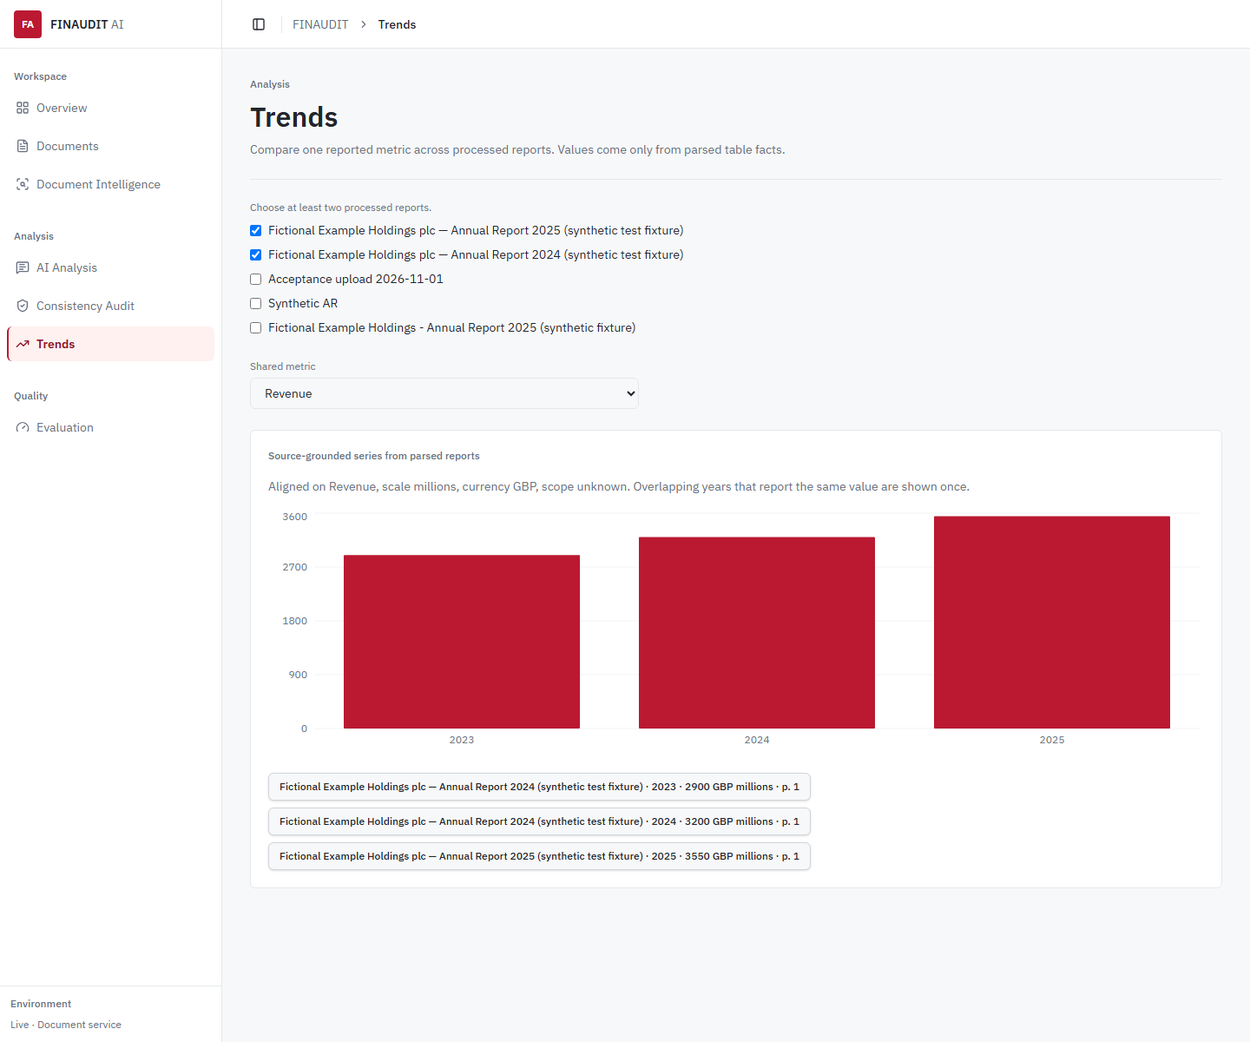
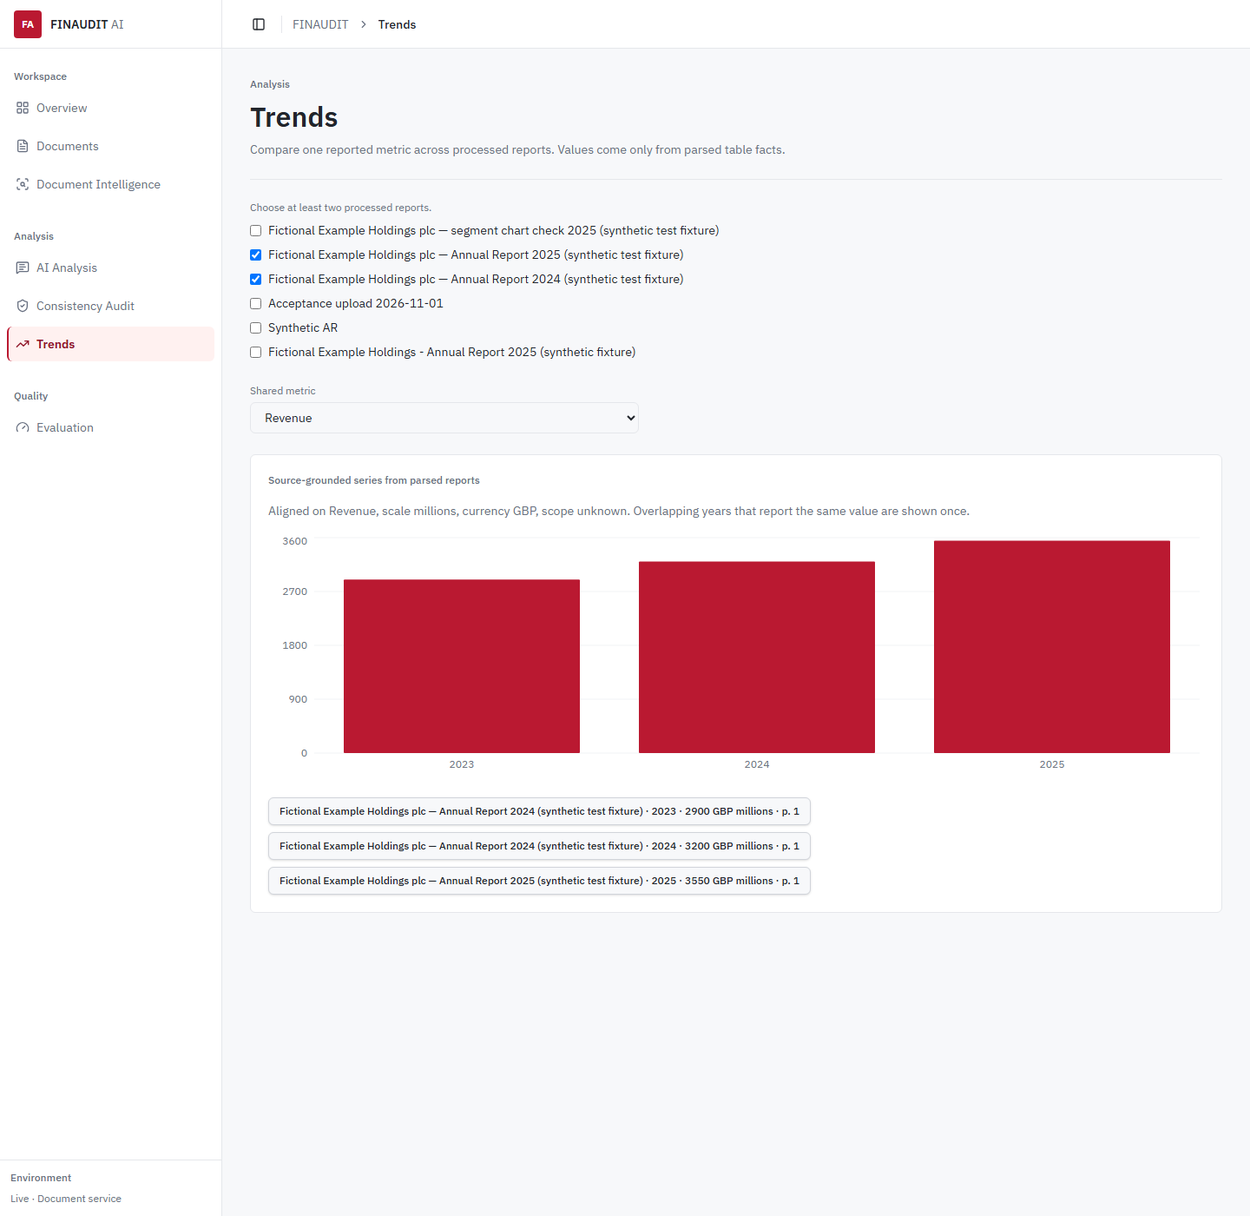
Deliver the verified OpenAI vision demo for all three Project 10 outcomes.
Document the five-minute flow, redacted provider evidence, synthetic chart-check fixture, and browser screenshots while keeping the short-course checkpoint unchanged.

diff --git a/services/api/tests/fixtures/generate_chart_check.py b/services/api/tests/fixtures/generate_chart_check.py
@@ -1,0 +1,94 @@
+"""Synthetic chart-versus-table fixture.
+
+The chart prints North 240, South 158, East 90, and West 21.
+The table reports the same figures except East, which is 150.
+Both pages say this is a synthetic test fixture and not a real company.
+
+Run: python tests/fixtures/generate_chart_check.py
+"""
+
+from __future__ import annotations
+
+import io
+from pathlib import Path
+
+from PIL import Image, ImageDraw, ImageFont
+from reportlab.lib import colors
+from reportlab.lib.pagesizes import A4
+from reportlab.lib.utils import ImageReader
+from reportlab.pdfgen import canvas
+from reportlab.platypus import Table, TableStyle
+
+OUT = Path(__file__).parent
+W, H = A4
+FONT = Path(r"C:\Windows\Fonts\arial.ttf")
+FONT_BOLD = Path(r"C:\Windows\Fonts\arialbd.ttf")
+
+
+def chart_png() -> bytes:
+    img = Image.new("RGB", (1100, 640), "white")
+    draw = ImageDraw.Draw(img)
+    title = ImageFont.truetype(str(FONT_BOLD), 36)
+    label = ImageFont.truetype(str(FONT), 32)
+    value = ImageFont.truetype(str(FONT_BOLD), 40)
+    draw.text((40, 24), "Segment revenue 2025", fill="black", font=title)
+    draw.text((40, 72), "GBP millions", fill="black", font=label)
+    bars = [("North", 240), ("South", 158), ("East", 90), ("West", 21)]
+    for index, (name, amount) in enumerate(bars):
+        left = 120 + index * 240
+        top = 560 - int(amount * 1.6)
+        draw.rectangle([left, top, left + 140, 560], fill=(30, 64, 140))
+        amount_text = str(amount)
+        box = draw.textbbox((0, 0), amount_text, font=value)
+        draw.text((left + 70 - (box[2] - box[0]) / 2, top - 52), amount_text, fill="black", font=value)
+        box = draw.textbbox((0, 0), name, font=label)
+        draw.text((left + 70 - (box[2] - box[0]) / 2, 575), name, fill="black", font=label)
+    draw.line([70, 560, 1040, 560], fill="black", width=3)
+    draw.line([70, 140, 70, 560], fill="black", width=3)
+    buf = io.BytesIO()
+    img.save(buf, "PNG")
+    return buf.getvalue()
+
+
+def main() -> None:
+    path = OUT / "synthetic_chart_check.pdf"
+    pdf = canvas.Canvas(str(path), pagesize=A4, invariant=1)
+    pdf.setTitle("Fictional Example Holdings plc — segment chart check 2025 (synthetic test fixture)")
+    pdf.setFont("Helvetica-Bold", 16)
+    pdf.drawString(72, H - 80, "Fictional Example Holdings plc")
+    pdf.setFont("Helvetica", 11)
+    pdf.drawString(72, H - 110, "SYNTHETIC TEST FIXTURE. This is not a real company and contains no real financial data.")
+    pdf.drawString(72, H - 128, "Segment revenue for the year ended 31 December 2025. Figures are in GBP millions.")
+    rows = [
+        ["", "2025"],
+        ["North", "240"],
+        ["South", "158"],
+        ["East", "150"],
+        ["West", "21"],
+    ]
+    table = Table(rows, colWidths=[180, 90], rowHeights=22)
+    table.setStyle(TableStyle([
+        ("GRID", (0, 0), (-1, -1), 0.6, colors.black),
+        ("FONTNAME", (0, 0), (-1, 0), "Helvetica-Bold"),
+        ("ALIGN", (1, 0), (-1, -1), "RIGHT"),
+        ("VALIGN", (0, 0), (-1, -1), "MIDDLE"),
+    ]))
+    _, height = table.wrapOn(pdf, W, H)
+    top = H - 170
+    table.drawOn(pdf, 72, top - height)
+    pdf.setFont("Helvetica-Oblique", 9)
+    pdf.drawString(72, top - height - 16, "Table 1: Segment revenue (GBP millions), synthetic, 2025")
+    pdf.showPage()
+    pdf.setFont("Helvetica-Bold", 16)
+    pdf.drawString(72, H - 80, "Segment performance")
+    image = chart_png()
+    pdf.drawImage(ImageReader(io.BytesIO(image)), 72, H - 460, 450, 262)
+    pdf.setFont("Helvetica-Oblique", 9)
+    pdf.drawString(72, H - 480, "Figure 1: Segment revenue, 2025 (synthetic test fixture)")
+    pdf.showPage()
+    pdf.save()
+    print("wrote", path)
+
+
+if __name__ == "__main__":
+    main()

diff --git a/services/api/tests/unit/test_course_reports.py b/services/api/tests/unit/test_course_reports.py
@@ -15,6 +15,13 @@ def _text(name: str) -> str:
         doc.close()
 
 
+def test_chart_check_fixture_prints_a_mismatch_and_says_synthetic() -> None:
+    text = _text("synthetic_chart_check.pdf")
+    assert "SYNTHETIC TEST FIXTURE" in text
+    assert "not a real company" in text
+    assert "150" in text and "240" in text and "158" in text and "21" in text
+
+
 def test_course_reports_are_distinct_and_labelled_synthetic() -> None:
     earlier = _text("synthetic_ar_2024.pdf")
     later = _text("synthetic_ar_2025.pdf")

diff --git a/services/api/scripts/start_api.py b/services/api/scripts/start_api.py
@@ -1,0 +1,16 @@
+"""Start the API with the gitignored .env loaded into the process environment."""
+
+from __future__ import annotations
+
+import os
+import sys
+from pathlib import Path
+
+from dotenv import dotenv_values
+
+root = Path(__file__).resolve().parents[1]
+os.chdir(root)
+for name, value in dotenv_values(root / ".env").items():
+    if value:
+        os.environ[name] = value
+os.execv(sys.executable, [sys.executable, "-m", "uvicorn", "app.main:app", "--host", "127.0.0.1", "--port", "8000"])

diff --git a/DEMO_GUIDE.md b/DEMO_GUIDE.md
@@ -1,19 +1,19 @@
 # Five-minute demonstration
 
-Branch: `demo/short-course-final`.
+Branch: `final-demo` (rollback checkpoint: `demo/short-course-final` at `3bfc04b`).
 
-Use documents that are already **Ready**. A fresh Docling parse of the 3-page fixture took 103 seconds on this machine, so do not start an upload during the five minutes. The upload path was checked separately on 1 November 2026 and is described at the end.
+Use documents that are already **Ready**. Do not upload during the five minutes unless the library is empty. All figures below were verified on 2 November 2026 with provider **openai**, model **gpt-4.1-mini**, and parsed table facts from Docling.
 
-Screenshots from that check are in `docs/short-course-demo/`. If the live app fails, open those files instead of improvising results.
+Screenshots are in `docs/short-course-demo/`. If the live app fails, open those files instead of improvising results.
 
 ## Start, before the room
 
-Three terminals. Keep the API on loopback.
+Three terminals. Keep the API on loopback. The vision key must be in `services/api/.env` as `FINAUDIT_LLM_API_KEY` (gitignored). Plain `uvicorn` does not load that key into the process; use the helper below.
 
 ```powershell
-# Terminal 1 — API
+# Terminal 1 — API (loads gitignored .env, binds 127.0.0.1 only)
 cd services\api
-.\.venv\Scripts\python.exe -m uvicorn app.main:app --host 127.0.0.1 --port 8000
+.\.venv\Scripts\python.exe scripts\start_api.py
 ```
 
 ```powershell
@@ -30,68 +30,64 @@ npm install
 npm run dev
 ```
 
-Open http://localhost:8080. The sidebar footer must say **Live · Document service**. Health: http://127.0.0.1:8000/api/v1/health.
+Open http://localhost:8080. The sidebar footer must say **Live · Document service**.
 
-Test PDF, already in the repo: `services/api/tests/fixtures/annual_report_excerpt.pdf`. It is a synthetic 3-page report for Fictional Example Holdings plc and contains no real company data.
+Checks: http://127.0.0.1:8000/api/v1/health returns 200. http://127.0.0.1:8000/api/v1/index/status shows `llm.provider` **openai**, `llm.model` **gpt-4.1-mini**, `llm.available` **true**.
 
-If Documents is empty, upload that PDF twice with two different titles and wait until both are Ready before the demo. One report is not enough for Trends.
+**Fixture PDFs in the repo** (synthetic, not real companies):
+
+| File | Role |
+| --- | --- |
+| `services/api/tests/fixtures/synthetic_chart_check.pdf` | Printed chart numbers vs table (MATCH + POTENTIAL_DISCREPANCY) |
+| `services/api/tests/fixtures/synthetic_ar_2024.pdf` | Distinct annual report, 2023–2024 revenue |
+| `services/api/tests/fixtures/synthetic_ar_2025.pdf` | Distinct annual report, 2024–2025 revenue |
+| `services/api/tests/fixtures/annual_report_excerpt.pdf` | Unlabelled bar chart; estimates only |
+
+If the chart-check or annual-report rows are missing, upload the matching fixture once as **Annual Report** and wait until **Ready** before presenting.
 
 ## Script
 
-**0:00 — Documents.** Show the library. On this machine the checked rows are Synthetic AR, Fictional Example Holdings - Annual Report 2025 (synthetic fixture), and Acceptance upload 2026-11-01. All three are Ready, 3 pages, Annual Report. Say they were parsed by Docling, not typed in by hand. Screenshot: `docs/short-course-demo/acceptance-documents-ready.png`.
+**0:00 — Documents.** Show the library. Point at **Ready** rows, especially **Fictional Example Holdings plc — segment chart check 2025 (synthetic test fixture)** and the two **Annual Report 2024 / 2025 (synthetic test fixture)** titles. Say values come from parsed PDF tables, not hand entry.
 
-**0:40 — Chart crop, not a generated summary.** Open Consistency Audit. Select Synthetic AR or the acceptance upload.
+**0:40 — Outcome 1: chart-to-text (real VLM).** Open **Consistency Audit**. Select **Acceptance upload 2026-11-01** (or any Ready report with the page-3 segment bar chart).
 
-- The page shows the extracted page-3 crop, caption **Figure 1: Revenue by segment, 2025 (synthetic)**, and labels North, South, East, West.
-- Say the crop and caption come from the PDF parser. No model wrote them.
-- Click **Read chart with the configured model**.
-- Expected: **Visual interpretation is unavailable. No chart summary was generated.**
-- Visual check stays **INSUFFICIENT_EVIDENCE**. Say automated chart-to-table auditing is not claimed, because no vision model is configured.
-- Click **Open source page** only if time remains. It opens page 3 with the figure highlighted.
+- The crop and caption are from Docling.
+- A stored reading should already appear: summary from **gpt-4.1-mini**, points marked **estimated from the graphic** (North 50, South ~35, East ~12, West ~3 on the checked run).
+- If empty, click **Read chart with the configured model** once and wait. Do not click repeatedly on quota errors.
+- Visual check on this unlabelled chart stays **INSUFFICIENT_EVIDENCE** (no segment table with those labels).
 
-Screenshots: `acceptance-audit-crop.png`, `acceptance-interpretation-unavailable.png`.
+Screenshot: `audit-existing-chart-summary.png`.
 
-**2:00 — Retrieval and the source table.** On the same audit page, search `operating profit`.
+**1:40 — Outcome 2: MATCH and POTENTIAL_DISCREPANCY.** Select **Fictional Example Holdings plc — segment chart check 2025 (synthetic test fixture)**.
 
-- Expected method label: `bm25+dense`.
-- Rank 1 is the page-2 income-statement table. Rank 2 is the sentence that operating profit rose to GBP 703 million.
-- The figure hit says figure values are not extracted from the image. Do not read the bar heights as numbers.
-- Click rank 1. Document Intelligence opens page 2 with the table highlighted.
-- Point at the cells: 2025 revenue **4,812**, 2025 operating profit **703**, GBP millions. These are parsed table cells.
+- Chart-to-text lists printed values **240, 158, 90, 21** and model id **openai · gpt-4.1-mini-2025-04-14**.
+- Visual check: **MATCH** for North, South, West; **POTENTIAL_DISCREPANCY** for East (chart **90** vs table **150**, absolute difference **60**).
+- Click **Open source page** on the East line. Document Intelligence opens page 1 with the segment table; East cell **150**.
 
-Screenshots: `acceptance-evidence-search.png`, `acceptance-source-table.png`, `acceptance-upload-table.png`.
+Screenshots: `audit-match-and-discrepancy.png`, `audit-discrepancy-source.png`.
 
-**3:20 — Two-report comparison.** Open Trends. Tick two Ready reports. Leave the metric on **Revenue**.
+**3:00 — Outcome 3: multi-document trend.** Open **Trends**. Select only:
 
-- The heading says **Comparison, not a comprehensive trend**.
-- Expected points, GBP millions: 2024 **4281** and 2025 **4812** in each selected report, page 2.
-- The Change column, 12.4%, is left out because it is a percent.
-- Say the two local reports are copies of the same synthetic PDF, so the bars match. This is not a multi-issuer trend and not model output.
-- Click **Synthetic AR · 2025 · 4812**. Page 2 opens with the income-statement table highlighted.
+- Fictional Example Holdings plc — Annual Report **2024** (synthetic test fixture)
+- Fictional Example Holdings plc — Annual Report **2025** (synthetic test fixture)
 
-Screenshot: `acceptance-trends-comparison.png`.
+Metric **Revenue**. Heading: **Source-grounded series from parsed reports**. Expect 2023 **2900**, 2024 **3200** (once), 2025 **3550**, GBP millions. Click the **2024 · 3200** citation; the 2024 report table opens.
 
-**4:20 — Question answering stays off.** Open AI Analysis. Select one report. Ask `What was operating profit in 2025?`
+Screenshot: `distinct-reports-revenue.png` (operating profit: `distinct-reports-operating-profit.png`).
 
-- Expected: **Question answering is not configured on this server.** No answer text is produced.
-- Say the supported number is the table cell 703, already shown, not an answer from a language model.
-
-Screenshot: `analysis-qa-unavailable.png`.
-
-## What was executed on 1 November 2026
-
-- `POST /api/v1/documents` accepted `annual_report_excerpt.pdf` as **Acceptance upload 2026-11-01** (`doc_db4e313061b54d8eb9b85dd9701af9ca`).
-- The worker parsed it with Docling 2.145.0 in 103.3 seconds: 3 pages, 4 evidence regions, 18 parsed financial facts. The Documents page showed Ready, and Document Intelligence highlighted the income statement.
-- Search on that new report returned the page-2 table first and opened it from the UI.
-- Chart reading returned HTTP 503. No summary was stored.
-- Trends plotted the parsed revenue facts for the two earlier copies and opened the source table.
-- Backend tests: 384 passed, 1 deselected. Frontend: typecheck passed, 11 tests passed, production build completed.
+**4:20 — Boundaries.** Say QA is still off unless configured. Do not claim the unlabelled chart’s percent estimates as audited table facts. Redacted provider log: `openai-vision-success.txt`.
 
 ## If the live demo fails
 
-Use the screenshots above and say which step failed. Do not substitute a written summary or a discrepancy verdict.
+Use the screenshots and `REQUIREMENTS_COMPLIANCE.md`. Do not invent summaries or discrepancy verdicts.
 
-- Footer says demo instead of Live: set `VITE_FINAUDIT_API_URL=http://localhost:8000` and restart `npm run dev`.
-- A new upload stays on Processing: confirm terminal 2 is the worker. Parsing this fixture takes about two minutes after Docling has loaded.
-- The new upload's worker log recorded 0 vectors because the local vector index was already open in the API process. Search can still return the table through the hybrid endpoint. To rebuild vectors, stop the API and the worker, run the one-process reindex in `FINAL_LIMITATIONS.md`, then start the API and the worker again.
-- Trends says two reports are required: select a second Ready report. Do not show one report as a trend.
+- Footer says demo: set `VITE_FINAUDIT_API_URL=http://localhost:8000` and restart Vite.
+- **Visual interpretation is unavailable**: restart API with `scripts\start_api.py`, confirm `llm.available` in index status, confirm OpenAI billing.
+- Interpret returns 429: stop; do not hammer the API.
+- Trends needs two distinct Ready reports with the same metric and units.
+
+## Verified run (2 November 2026)
+
+- One schema vision probe on the existing chart crop: HTTP 200, model `gpt-4.1-mini-2025-04-14`.
+- Stored readings on Acceptance upload and on `doc_95e7442728764d9088643ac9c9f9b9d9` (chart-check fixture).
+- Backend `pytest -q`: 389 passed. Frontend: `tsc --noEmit` clean, Vitest 14 passed, `npm run build` succeeded.

diff --git a/REQUIREMENTS_COMPLIANCE.md b/REQUIREMENTS_COMPLIANCE.md
@@ -2,21 +2,22 @@
 
 Project 10 expected three outcomes: automated chart-to-text summaries, visual discrepancy checks, and multi-document financial trend analysis.
 
-Checked again on 1 November 2026 on branch `feature/gemini-chart-outcomes`. The stable demo checkpoint remains `demo/short-course-final` at `3bfc04b` and was not merged or rewritten. The app at http://localhost:8080 was in live mode against the API on 127.0.0.1:8000.
+Checked on 2 November 2026 on branch `final-demo` (verified demo delivery; rollback checkpoint `demo/short-course-final` at `3bfc04b`). The gitignored server `.env` selects provider `openai`, model `gpt-4.1-mini`, and base URL `https://api.openai.com/v1`. The key stays in `FINAUDIT_LLM_API_KEY`. The running API process has that variable set (length 164) and `GET /api/v1/index/status` reports the provider available. The stable demo checkpoint remains `demo/short-course-final` at `3bfc04b` and was not merged. The app at http://localhost:8080 was in live mode against http://127.0.0.1:8000.
+
+An earlier call on 1 November returned HTTP 429 `credit_balance_exhausted`. After credits were added, one vision request against the existing chart crop returned HTTP 200. That request was not repeated as a quota retry.
 
 | Outcome | Status | Where the result comes from | What was executed |
 | --- | --- | --- | --- |
-| Automated chart-to-text summaries | NOT IMPLEMENTED | No model reading was stored. The audit page still shows the Docling crop and the printed caption. | A real PNG crop of `annual_report_excerpt.pdf` page 3 (5,846 bytes, PNG signature checked) was sent with the chart JSON schema through `OpenAICompatibleProvider` to `https://generativelanguage.googleapis.com/v1beta/openai/chat/completions`, model `gemini-3.8-flash`, using the server-side `FINAUDIT_LLM_API_KEY`. The call returned HTTP 403. The same crop sent to the native `generateContent` endpoint, with the key only in the `x-goog-api-key` header, returned the same 403: the Gemini API free tier is not available and billing is required. No summary text was parsed because the provider refused the call before it read the image. The already-running API process still has `FINAUDIT_LLM_PROVIDER=none`, so **Read chart with the configured model** on Acceptance upload 2026-11-01 returned the unavailable state and the page said no chart summary was generated. Screenshots: `docs/short-course-demo/audit-interpretation-still-unavailable.png`. Redacted provider record: `docs/short-course-demo/gemini-provider-response.txt`. |
-| Visual discrepancy checks | NOT IMPLEMENTED as a live result | The UI stays on INSUFFICIENT_EVIDENCE until a stored reading names one parsed fact. Unit tests compute MATCH and POTENTIAL_DISCREPANCY from a scripted reader plus parsed facts. | The live audit page, after the refused read, said automated chart-to-table auditing is not available. No MATCH or POTENTIAL_DISCREPANCY was shown, because there is no vision-model output to compare. The new check aligns a chart point to one FinancialFact only when the label, fiscal year, scale, and currency agree and exactly one fact remains. A nearer number from another year is not a candidate. `tests/unit/test_visual.py` covers a same-year match (North 2400 against the 2025 fact 2410, not the nearer 2024 fact 2300), an intentional same-year conflict (South 1200 against 1580), a missing period, and the unreadable value `cannot be read`. Those verdicts are computed by `cross_check`. They are not a live Gemini result, and they are not hard-coded in the page. |
-| Multi-document financial trend analysis | IMPLEMENTED for two distinct synthetic reports | Parsed FinancialFacts from two different one-page PDFs for Fictional Example Holdings plc. Not a language model and not the demo-mode series. | `synthetic_ar_2024.pdf` reports Revenue 3,200 (2024) and 2,900 (2023), Operating profit 410 and 360. `synthetic_ar_2025.pdf` reports Revenue 3,550 (2025) and 3,200 (2024), Operating profit 470 and 410. Both say SYNTHETIC TEST FIXTURE and that the company is not real. Both were uploaded, parsed, and exposed four parsed facts each, in GBP millions. Trends, with only those two reports selected, plotted Revenue 2023 = 2900, 2024 = 3200, 2025 = 3550 and Operating profit 2023 = 360, 2024 = 410, 2025 = 470. The overlapping 2024 value is shown once. Clicking the 2024 revenue citation opened `/intelligence?doc=doc_63ea7478862c423fb915946672a67a4c&page=1&ev=ev-p1-b004` with the income-statement table highlighted. Screenshots: `distinct-reports-revenue.png`, `distinct-reports-operating-profit.png`, `distinct-reports-source.png`. |
+| Automated chart-to-text summaries | IMPLEMENTED | `gpt-4.1-mini-2025-04-14` through the existing OpenAI-compatible adapter. Every number below was parsed from the model response. | The unlabelled Figure 1 crop first returned `is_chart: true` and value `cannot be read` for North, South, East, and West. The application's later interpret of Acceptance upload 2026-11-01 stored a different real reading of that same figure: summary "North is the largest segment, followed by South, East, and West." Points are visual estimates, `printedOnChart` false: North 50, South approximately 35, East approximately 12, West approximately 3. The labelled synthetic chart returned the printed labels North 240, South 158, East 90, and West 21, with summary "The chart shows segment revenue in GBP millions for four regions: North has 240, South has 158, East has 90, and West has 21." Screenshots: `docs/short-course-demo/audit-existing-chart-summary.png`, `audit-match-and-discrepancy.png`. Record: `openai-vision-success.txt`. |
+| Visual discrepancy checks | IMPLEMENTED for the labelled synthetic fixture | Chart points from the model, compared by code with parsed FinancialFacts for the same label, year, scale, and currency. | `synthetic_chart_check.pdf` is marked SYNTHETIC TEST FIXTURE. Its table, parsed before the model call, is North 240, South 158, East 150, West 21, GBP millions, segment scope, fiscal year 2025. The model read the printed chart values 240, 158, 90, and 21. The check computed MATCH for North, South, and West (absolute difference 0) and POTENTIAL_DISCREPANCY for East (chart 90, table 150, absolute difference 60). The East source button opened `/intelligence?doc=doc_95e7442728764d9088643ac9c9f9b9d9&page=1&ev=ev-p1-b003`, where the table shows East 150. The unlabelled chart's estimates do not match a segment fact, so that page stays INSUFFICIENT_EVIDENCE. Screenshots: `audit-match-and-discrepancy.png`, `audit-discrepancy-source.png`. |
+| Multi-document financial trend analysis | IMPLEMENTED | Parsed FinancialFacts from two different synthetic annual reports. Not a model and not demo-mode data. | Revenue is 2900 (2023), 3200 (2024, shown once), and 3550 (2025), GBP millions. Operating profit is 360, 410, and 470. The 2024 citation still opens the 2024 income-statement table. The new chart-check upload was left unselected. Screenshot: `distinct-reports-revenue.png`. |
 
 | Supporting check | Status | Evidence |
 | --- | --- | --- |
-| Source navigation from a chart crop | IMPLEMENTED | **Open source page** on the Acceptance upload crop opened `/intelligence?doc=doc_db4e313061b54d8eb9b85dd9701af9ca&page=3&ev=ev-p3-b002`. Page 3 shows Figure 1 outlined. The bars have no printed numbers. Screenshot: `audit-crop-source.png`. |
-| Native Gemini adapter | NOT ADDED | Both the OpenAI-compatible call and the native REST call failed with the same billing 403. The refusal happens before request-schema validation. An official GenAI SDK client would receive the same refusal. |
-| A verified chart-versus-table discrepancy from a vision model | NOT IMPLEMENTED | No chart points were returned by the provider, so no chart value was paired with a table value in the UI. |
-| Tests and build on 1 November 2026 | Passed | Frontend: `tsc --noEmit` produced no errors, Vitest 14 passed, `npm run build` succeeded. Backend: `pytest -q` — 388 passed, 1 warning (local Qdrant payload indexes have no effect). Developer `.env` is ignored by the test process so a configured provider cannot turn the "no model" checks into live calls. |
+| OpenAI vision on the existing chart crop | IMPLEMENTED | HTTP 200, served model `gpt-4.1-mini-2025-04-14`, strict JSON parsed. On that crop the model said the bar values cannot be read. |
+| Source navigation | IMPLEMENTED | The discrepancy source opens the synthetic table. The trend citation opens the 2024 revenue row's report. |
+| Tests on 2 November 2026 | Passed | Backend `pytest -q`: 389 passed, 1 local-Qdrant warning. Frontend `tsc --noEmit`: no errors. Vitest: 14 passed. |
 
-The figure crop in the fixture has labels (North, South, East, West) and no printed values. Even after billing is enabled, a reading of that crop would be estimates, and a discrepancy could be shown only when a point's label, year, unit, and scope match one parsed fact.
+The unlabelled fixture chart has no printed numbers, and the model did not return the same reading twice: one call said the values cannot be read, and the stored application reading gives rough visual estimates. Those estimates are labelled as estimates and are not treated as a table match. The MATCH and POTENTIAL_DISCREPANCY results use only the printed-number synthetic fixture.
 
 Demo mode is unchanged. With `VITE_FINAUDIT_API_URL` unset, Trends still shows the labelled fictional series and Consistency Audit stays a pending module.
